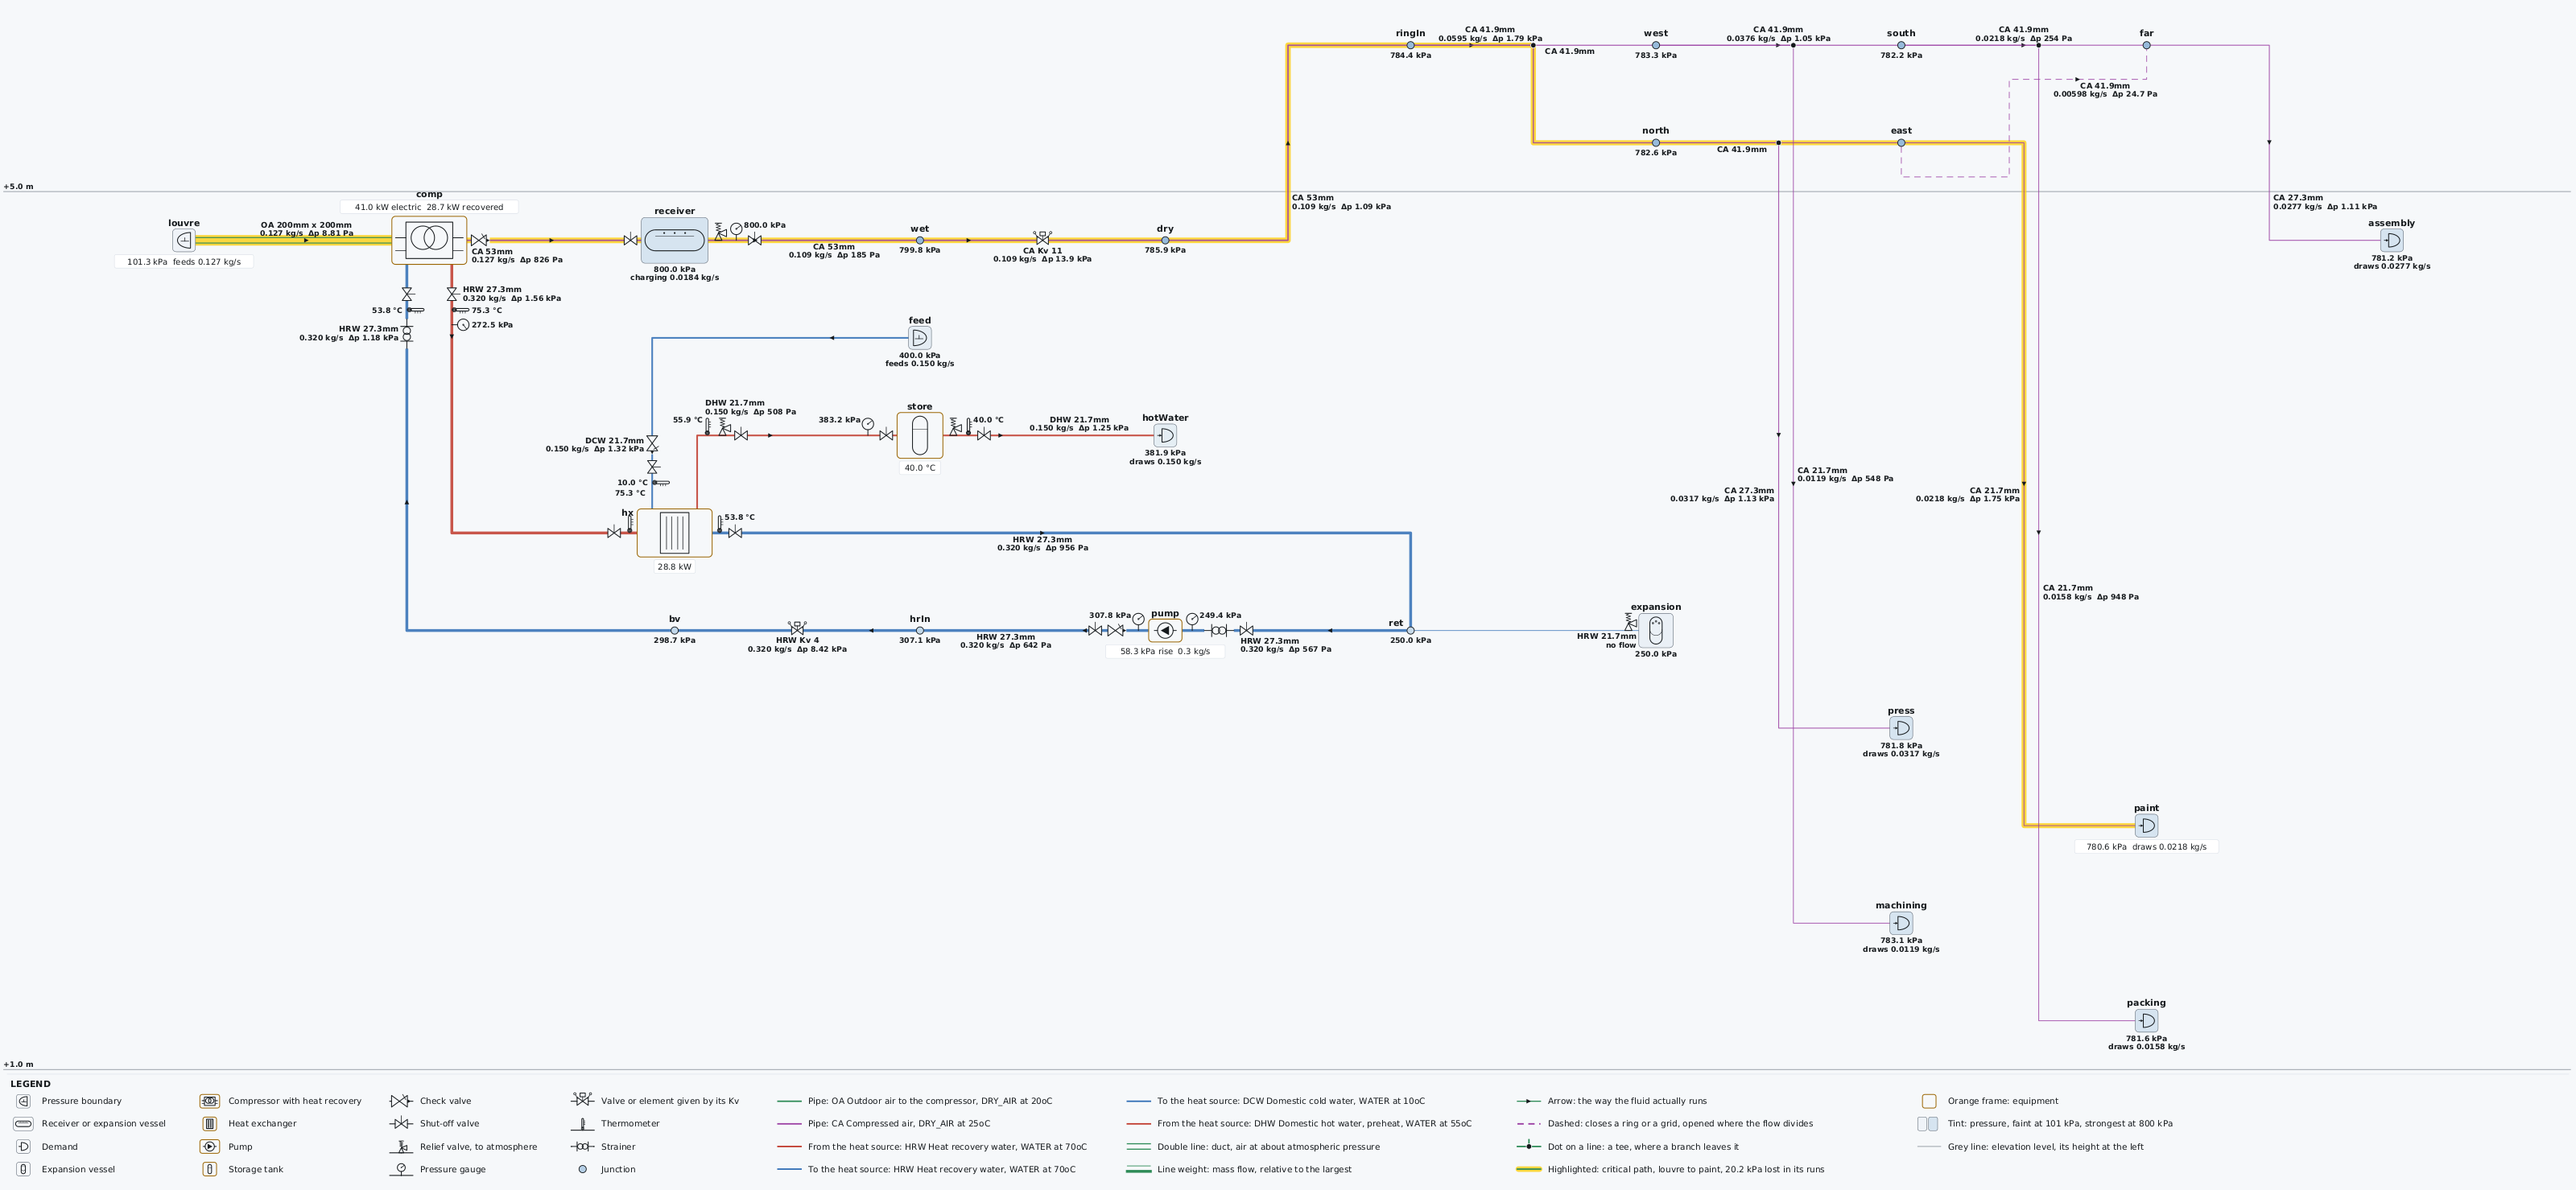
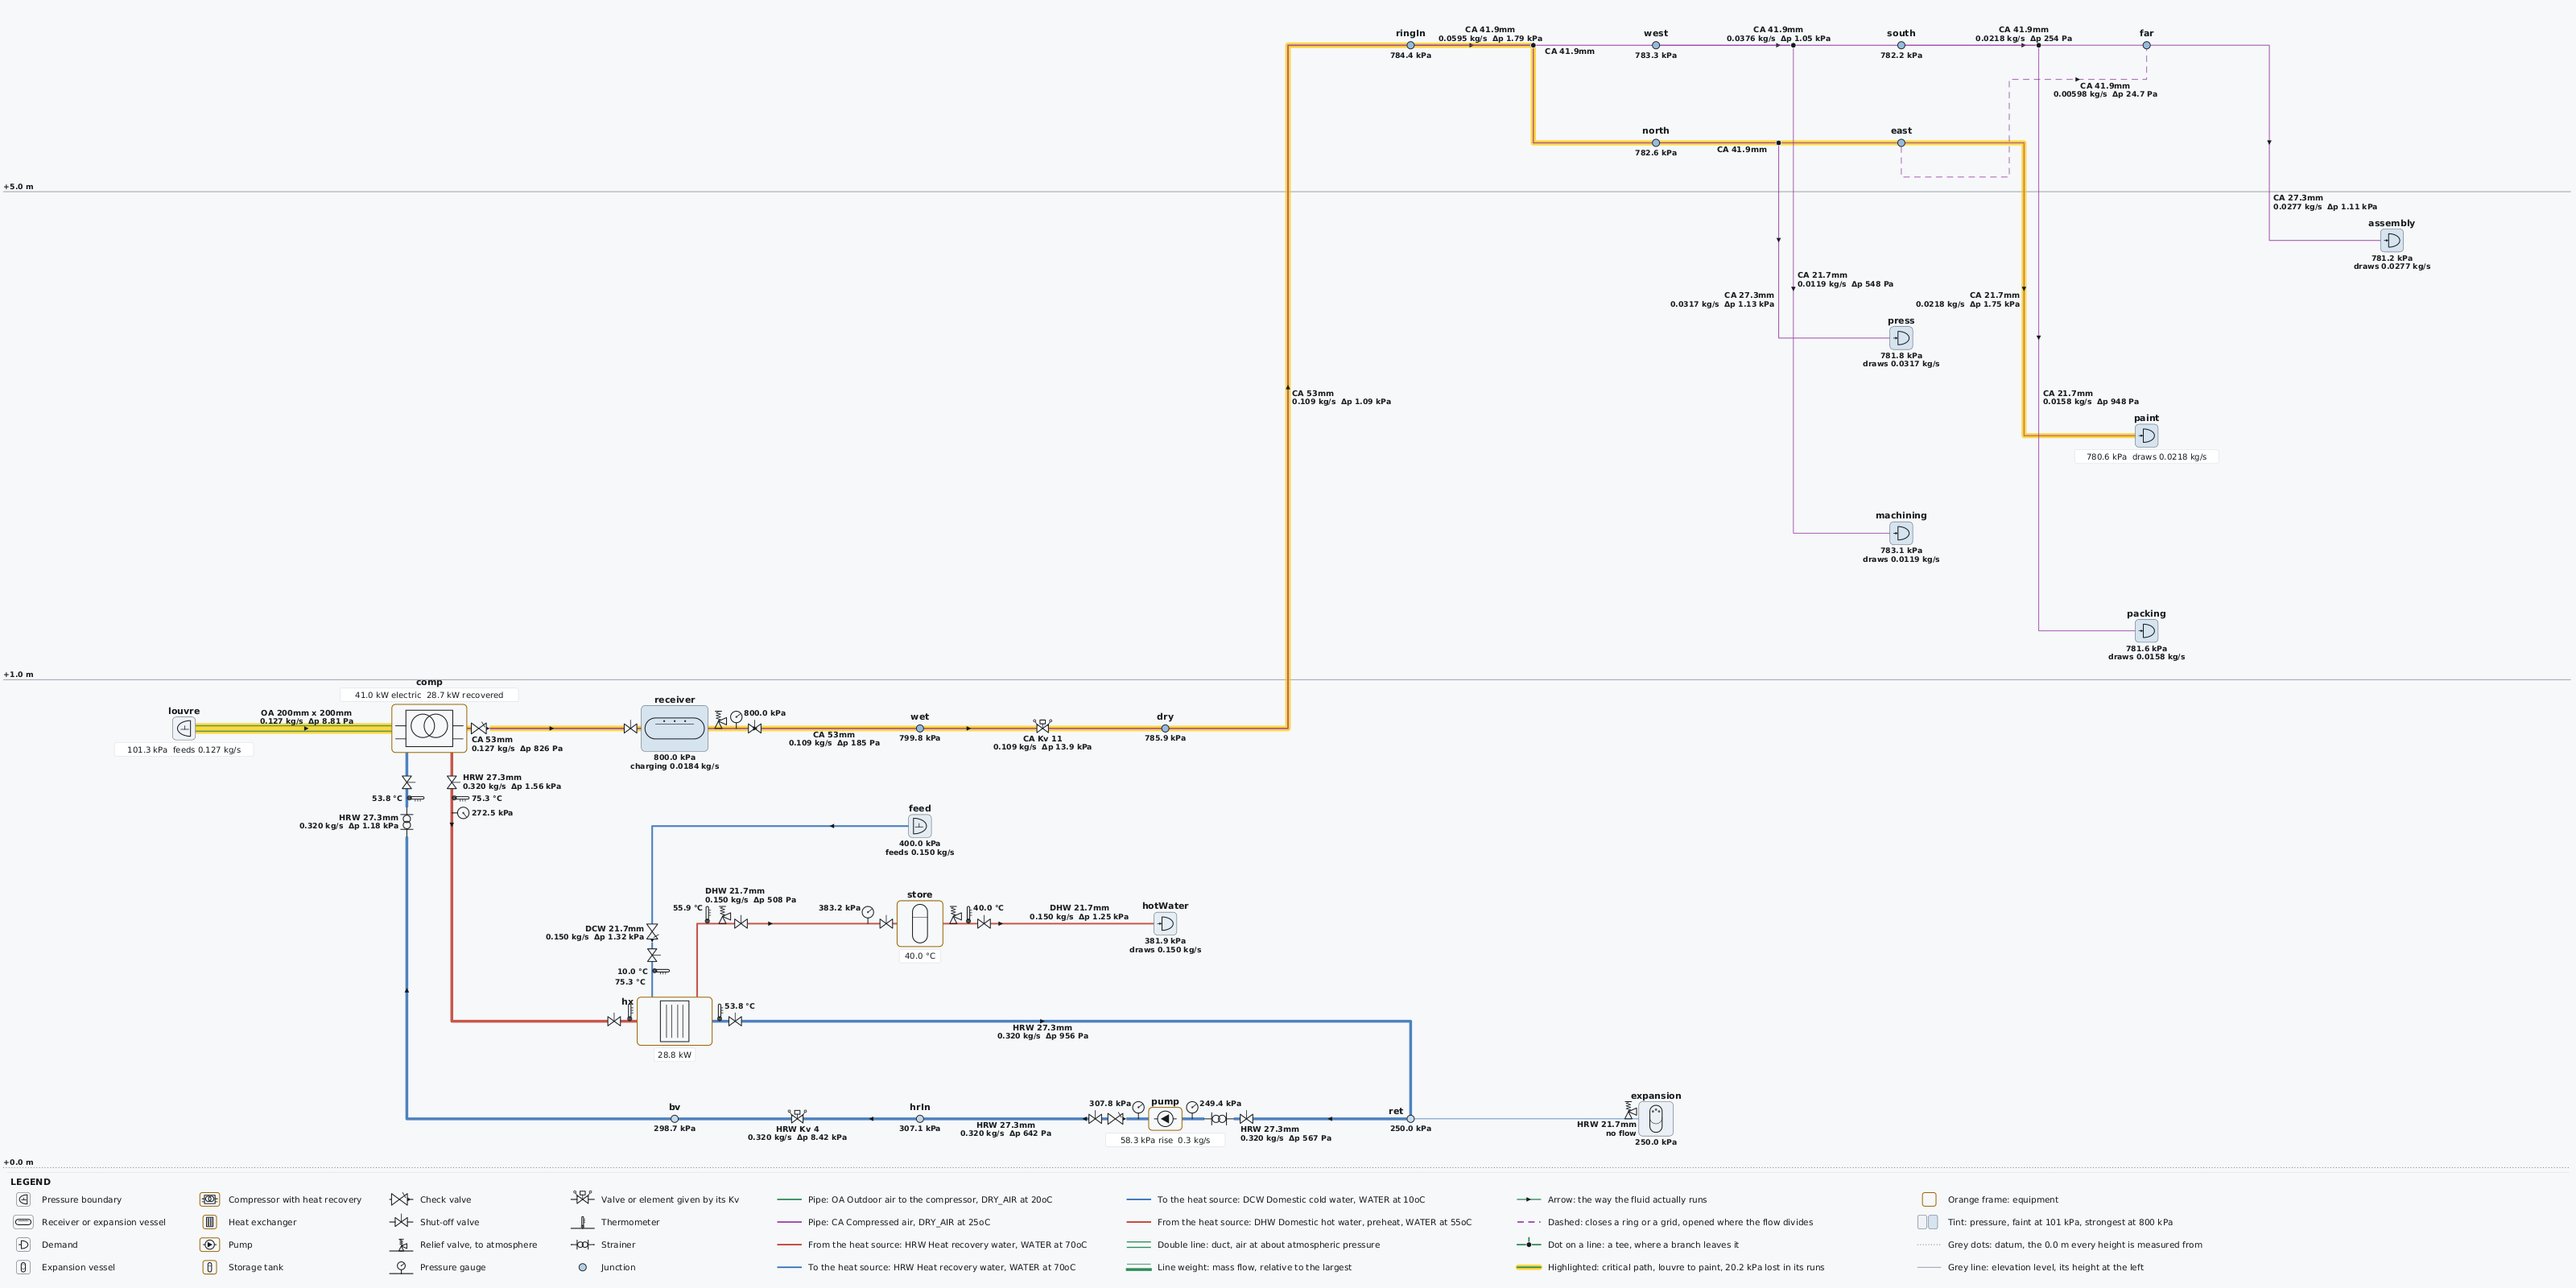
docs(hydronic): a run reports its mass and energy balance; the example quotes it

diff --git a/README.md b/README.md
@@ -131,15 +131,16 @@ cycle, and how much heat reaches the hot water?* The answer came back as the dra
 
 - At the design point, the receiver at its 8 bar, 20.2 kPa is lost on the way to the farthest tool, 13.9 kPa of
   it in the dryer.
-- Over the run the paint shop's lowest is 6.25 bar gauge, at the bottom of the receiver's swing, above the 6 bar
+- Over the run the paint shop's lowest is 6.23 bar gauge, at the bottom of the receiver's swing, above the 6 bar
   its tools need.
 - The ring is fed both ways, and the flows meet where the run between two corners carries only 0.006 kg/s.
 - The compressor unloads twice in 20 minutes and runs loaded 83 % of the time at 36.2 kW on average.
-- 25.4 kW recovered from the oil cooler, sending mains water to the store at about 56 °C.
+- 25.4 kW recovered from the oil cooler, sending mains water to the store at about 56 °C. The run's energy
+  balance closes: of the 8.48 kWh recovered, 1.99 kWh stay in the store and 6.49 kWh leave with the hot water.
 
 The study comes in two parts, so no figure is of a state the reader cannot name: the design point, solved steady,
-which the drawing and every schedule show, and the run over time, with each machine over the run and the lowest
-pressure every point saw and when.
+which the drawing and every schedule show, and the run over time, with each machine over the run, the lowest
+pressure every point saw and when, its curves, and a mass and energy balance that says whether the run closes.
 
 The drawing is generated from the design, deterministically: the same design always gives the same drawing,
 and no AI draws it. Five systems sit on it, each line carrying its code: OA outdoor air in a duct (the double

diff --git a/skills/hydronic/references/report.md b/skills/hydronic/references/report.md
@@ -128,7 +128,10 @@ design point: the plant solved steady, every machine at its stated command and e
 and the drawing, the design checks, the critical path, the equipment and the schedules are all this state. Part 2 is
 the run over time: whether it completed and every instant converged, each vessel's swing, each machine over the run
 (a compressor's averages, energy and starts), the lowest pressure each point reached and when, judged at a draw
-point against the least its system must keep, a chart per unit and every command change. A draw point that keeps
+point against the least its system must keep, a mass and energy balance per fluid circuit, charts with their ticks
+(one per range, a command drawn as the step it is) and every command change. The balance counts what a gas
+receiver kept twice, from its flows and from its own state, and the two agree when the run conserved mass; an energy
+residual near zero says the same of energy. Quote both before trusting a run's energy figures. A draw point that keeps
 its pressure at the design point but falls below it at the bottom of a receiver's swing fails the verdict. The bill of materials aggregates like items: pipe and duct by material, size and system
 with their total length, fittings by type and the size of the run carrying them, valves, equipment and vessels by
 type, each line naming its members. Tees and crosses are counted from the network, one wherever three or four

diff --git a/skills/hydronic/SKILL.md b/skills/hydronic/SKILL.md
@@ -261,7 +261,8 @@ Three things about it are not optional:
 
 `labels="minimal"` draws ids and sizes only, for a dense plant. `mode="transient"` reports the plant in
 two parts: the design point, solved steady, which the drawing and every schedule show, and the run over time
-apart from it, with each machine over the run and the lowest pressure each point saw and when. Quote a figure
+apart from it, with each machine over the run, the lowest pressure each point saw and when, and a mass and
+energy balance per fluid circuit (`data.balance` in a transient solve's reply). Quote a figure
 with the part it comes from: "at the design point" or "over the run". `references/report.md` says what the page
 shows and how to read it.
 

diff --git a/CHANGELOG.md b/CHANGELOG.md
@@ -4,6 +4,12 @@ Notable changes, newest first. Breaking changes are marked as such.
 
 ## 2.0.0 (2026-10-04)
 
+### A run over time reports its mass and energy balance
+
+- The hydronic skill and `references/report.md` describe the balance a run now reports (`data.balance`, and a
+  section of the report): per fluid circuit the mass in, out and kept, a gas receiver's counted from its flows and
+  from its own state, and the energy per device and circuit with what is left over. The README example quotes it.
+
 ### A run over time is reported with its design point, apart
 
 - The hydronic skill and `references/report.md` describe the two-part report `hydronic_report(mode="transient")`
